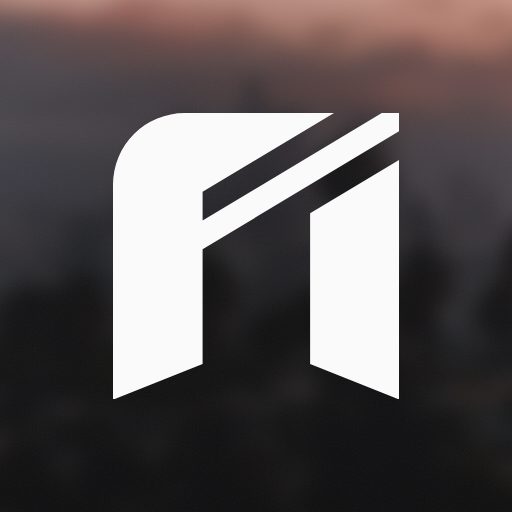
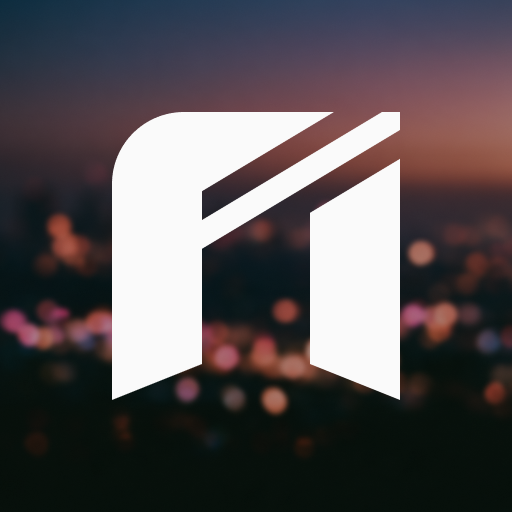
brand: Figma-designed covers, scene backdrops and author credit
- README banner, social preview, OG image and avatar exported from the
  Figma "nuikit — Export assets" section, with an @belibathan credit chip
- demo stage, hero, gallery and bridge sections use pre-blurred Los
  Santos-style scenes (public/bg)
- Credit chip in the site hero; credit line in README and footer

Claude-Session: https://claude.ai/code/session_01JTjiuwt2fWvK2b2qKenoEX

diff --git a/apps/www/src/App.tsx b/apps/www/src/App.tsx
@@ -3,6 +3,8 @@ import { ArrowRightIcon, CarIcon, GithubIcon, HeartPulseIcon, KeyIcon, ShieldIco
 import { useEffect, useRef, useState, type ReactNode } from "react";
 import { CodeBlock, Command, CopyButton } from "@/components/code";
 import { Logo } from "@/components/logo";
+import { Credit } from "@/components/credit";
+import { Backdrop } from "@/components/scene";
 import { Stage, radialItems } from "@/components/stage";
 import { Badge } from "@/components/ui/badge";
 import { Button } from "@/components/ui/button";
@@ -65,11 +67,12 @@ function Hero() {
   return (
     <section className="relative">
       <div className="pointer-events-none absolute inset-x-0 top-0 -z-10 h-[640px] overflow-hidden" aria-hidden>
-        <img src="/la.jpg" alt="" className="size-full scale-110 object-cover opacity-30 blur-xl" />
+        <img src="/bg/hero.jpg" alt="" className="size-full object-cover opacity-45" />
         <div className="absolute inset-0 bg-gradient-to-b from-background/40 via-background/70 to-background" />
       </div>
-      <div className="mx-auto max-w-6xl px-6 pt-20 pb-16">
-      <div className="flex justify-center">
+      <div className="mx-auto max-w-6xl px-6 pt-16 pb-16">
+      <div className="flex flex-col items-center gap-3">
+        <Credit />
         <Badge variant="outline" asChild>
           <a href="#proof">
             FiveM runs Chromium 103. Tailwind v4 needs 111. <ArrowRightIcon />
@@ -256,7 +259,9 @@ function Gallery() {
     return () => clearInterval(id);
   }, []);
   return (
-    <section className="mx-auto max-w-6xl px-6 py-20">
+    <section className="relative">
+      <Backdrop src="/bg/garage.jpg" />
+      <div className="mx-auto max-w-6xl px-6 py-20">
       <SectionTitle id="components" eyebrow="Registry" title="Game UI, composed from shadcn's own components.">
         Installed with the shadcn CLI you already use; their shadcn dependencies (Card, Item, Kbd, Progress, Badge) come with them. The code lands in your project
         and every piece is token-only and Chromium 103 safe.
@@ -307,6 +312,7 @@ function Gallery() {
         <MiniCard name="nui-toaster" text="The stock shadcn Sonner Toaster, wired to NUI.notify() in Lua." />
         <MiniCard name="use-nui-store" text="Merge partial updates from Lua into one object." />
       </div>
+      </div>
     </section>
   );
 }
@@ -324,7 +330,9 @@ function MiniCard({ name, text }: { name: string; text: string }) {
 
 function Bridge() {
   return (
-    <section className="mx-auto max-w-6xl px-6 py-20">
+    <section className="relative">
+      <Backdrop src="/bg/street.jpg" />
+      <div className="mx-auto max-w-6xl px-6 py-20">
       <SectionTitle id="bridge" eyebrow="Runtime" title="Lua and React, typed end to end.">
         One <code className="font-mono text-foreground">nui.d.ts</code> describes every message. <code className="font-mono text-foreground">fetchNui</code> autocompletes
         and checks payloads; whatever your Lua handler returns is the response. Framework-agnostic: QBCore, Qbox, ESX, ox or standalone.
@@ -374,6 +382,7 @@ NUI.send('hud:vitals', { health = 80, armor = 50 })
 NUI.notify({ title = 'Paid', type = 'success' })`}
         />
       </div>
+      </div>
     </section>
   );
 }
@@ -413,7 +422,13 @@ function Footer() {
     <footer className="border-t">
       <div className="mx-auto flex max-w-6xl flex-wrap items-center gap-4 px-6 py-8 text-sm text-muted-foreground">
         <Logo className="text-base text-foreground" />
-        <span>Not affiliated with Cfx.re, Rockstar Games or shadcn. Photo: <a href="https://unsplash.com/photos/3fJO4DBFO30" className="underline-offset-4 hover:underline">Jessica Christian</a>.</span>
+        <span>
+          by{" "}
+          <a href="https://github.com/belibathan" className="font-medium text-foreground underline-offset-4 hover:underline">
+            @belibathan
+          </a>
+        </span>
+        <span>Not affiliated with Cfx.re, Rockstar Games or shadcn.</span>
         <a href={REPO} className="ml-auto hover:text-foreground">GitHub</a>
         <a href="https://www.npmjs.com/package/vite-plugin-nuikit" className="hover:text-foreground">npm</a>
       </div>

diff --git a/apps/www/src/components/scene.tsx b/apps/www/src/components/scene.tsx
@@ -1,21 +1,24 @@
 import { cn } from "@/lib/utils";
 
 /**
- * The backdrop every HUD shot sits on: Los Angeles (which is what Los Santos is), slightly
- * blurred so it reads as "the game world" without competing with the UI on top.
- * Photo: Jessica Christian on Unsplash (Unsplash License).
+ * The backdrop every HUD shot sits on: a Los Santos-style street, pre-blurred in Figma
+ * (docs/brand: "nuikit — Export assets") so it reads as "the game world" behind the UI.
  */
 export function Scene({ className, variant = "dusk" }: { className?: string; variant?: "dusk" | "day" }) {
-  const day = variant === "day";
   return (
     <div className={cn("pointer-events-none absolute inset-0 overflow-hidden bg-neutral-900", className)} aria-hidden>
-      <img
-        src="/la.jpg"
-        alt=""
-        className="absolute -inset-4 size-[calc(100%+2rem)] max-w-none object-cover"
-        style={{ filter: day ? "blur(2px) brightness(1.2) saturate(1.15)" : "blur(2px) saturate(1.05)" }}
-      />
+      <img src={variant === "day" ? "/bg/stage-day.jpg" : "/bg/stage-dusk.jpg"} alt="" className="absolute inset-0 size-full object-cover" />
       <div className="absolute inset-0" style={{ background: "radial-gradient(120% 90% at 50% 40%, transparent 50%, rgba(0,0,0,.5))" }} />
+    </div>
+  );
+}
+
+/** A full-bleed, low-opacity photo behind a page section. Fades into the page at both edges. */
+export function Backdrop({ src, className }: { src: string; className?: string }) {
+  return (
+    <div className={cn("pointer-events-none absolute inset-0 -z-10 overflow-hidden", className)} aria-hidden>
+      <img src={src} alt="" className="size-full object-cover opacity-[0.14]" />
+      <div className="absolute inset-0 bg-gradient-to-b from-background via-transparent to-background" />
     </div>
   );
 }

diff --git a/apps/www/src/components/credit.tsx b/apps/www/src/components/credit.tsx
@@ -1,0 +1,19 @@
+import { cn } from "@/lib/utils";
+
+export const AUTHOR = { handle: "belibathan", avatar: "https://avatars.githubusercontent.com/u/128108519?v=4&s=96" };
+
+/** "Made by" chip: GitHub avatar and handle, linking to the profile. */
+export function Credit({ className }: { className?: string }) {
+  return (
+    <a
+      href={`https://github.com/${AUTHOR.handle}`}
+      className={cn(
+        "inline-flex items-center gap-2 rounded-full border bg-background/60 py-1 pr-3.5 pl-1 text-sm backdrop-blur transition-colors hover:bg-accent",
+        className,
+      )}
+    >
+      <img src={AUTHOR.avatar} alt="" className="size-6 rounded-full bg-muted" />
+      <span className="font-mono text-[13px] font-medium">@{AUTHOR.handle}</span>
+    </a>
+  );
+}

diff --git a/README.md b/README.md
@@ -4,6 +4,8 @@
 
 <h3>shadcn/ui and Tailwind v4 for FiveM NUI, rendered right.</h3>
 
+<sub>Made by <a href="https://github.com/belibathan"><img src="https://github.com/belibathan.png?size=40" width="20" height="20" align="center" style="border-radius:50%" /> <b>@belibathan</b></a></sub>
+
 FiveM's NUI runs **Chromium 103**, and Tailwind v4 needs **111**. nuikit compiles your CSS down at build time.<br/>
 It also gives you typed Lua ↔ React messaging, browser devtools that fake the game, hot reload in game, and a registry of HUD components.
 
@@ -257,6 +259,6 @@ PRs welcome. See [CONTRIBUTING.md](CONTRIBUTING.md). `pnpm i && pnpm test && pnp
 
 ## License
 
-[MIT](LICENSE). Not affiliated with Cfx.re, Rockstar Games, or shadcn. Backdrop photo by [Jessica Christian](https://unsplash.com/photos/3fJO4DBFO30) on Unsplash. Brand assets live in [`docs/brand`](docs/brand).
+[MIT](LICENSE). Not affiliated with Cfx.re, Rockstar Games, or shadcn. Brand assets live in [`docs/brand`](docs/brand).
 
 <div align="center"><sub>If nuikit saved you a night of debugging CEF, a ⭐ helps other server devs find it.</sub></div>
